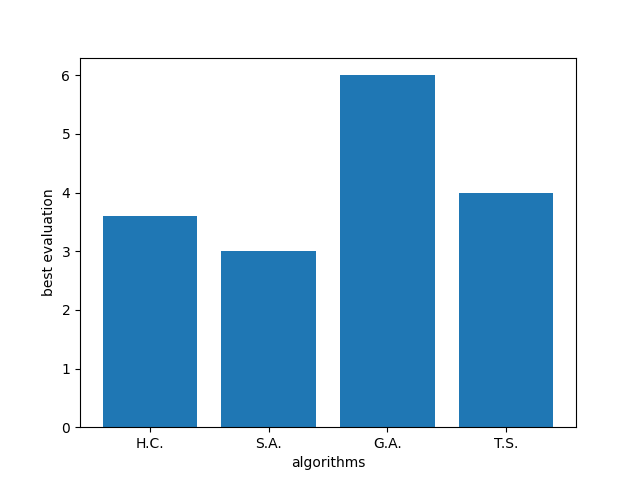
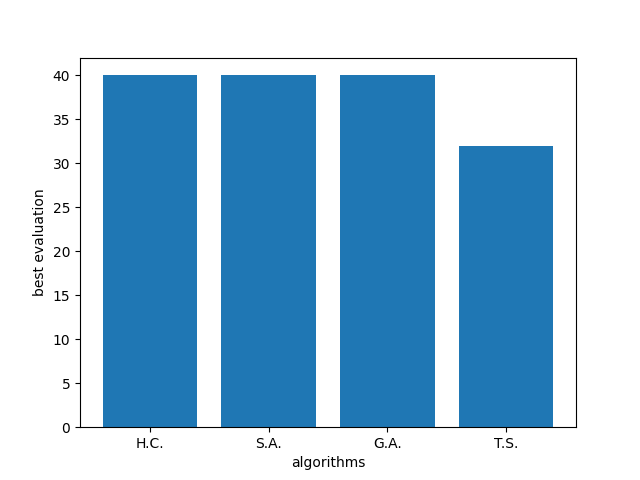
Fixed an error in the check_requirements() function where the penalties would add up when a needed member was working on a project.

diff --git a/Proj1/algorithms.py b/Proj1/algorithms.py
@@ -6,10 +6,13 @@ class Solution:
         self.team = team
         self.solution = []
         for _ in range (team.n_projects):
-            self.solution.append([random.randint(0,1) for _ in range(team.n_members)])
-            #self.solution.append([0 for _ in range(team.n_members)])
+            #self.solution.append([random.randint(0,1) for _ in range(team.n_members)])
+            self.solution.append([0 for _ in range(team.n_members)])
 
     def evaluate(self, solution):
+        if len(solution) == 0:
+            return 0
+        
         #print("NEIGHBOUR: ", solution)
         #return (sum(solution[0]) + sum(solution[1]) + sum(solution[2]) + sum(solution[3]))
         
@@ -19,8 +22,8 @@ class Solution:
             project_timer.append(0)
 
         days = 0                # Number of days passed 
+        total_days = 1
         score = 0               # Score of the completed projects
-        delta = 0               # Time passed without a project starting
         completed_projects = 0  # Number of completed projects
         unfinished_projects = 0 # Number of unfinished projects
         started_projects = 0    # Number of started projects
@@ -29,9 +32,6 @@ class Solution:
         
         i = 0         
         while True:
-            delta += 1
-            days += 1
-
             for i in range(self.team.n_projects):
                 project = self.team.projects[i]
                 solution_members.clear()
@@ -48,18 +48,20 @@ class Solution:
                     #print(project.name, "has not started yet.")
                     penalties += project.check_requirements(i, solution_members)
                     if project.has_started:
-                        #print(project.name, "has started!")
+                        #print(project.name, "has started in day: ", days)
                         #print("-------------------------\n")
                         project_timer[i] += 1
                         started_projects += 1
                         unfinished_projects += 1
                         delta = 0
+                        total_days += project.duration
 
                 # If the project has started start the timers
                 else:
                     project_timer[i] += 1
                     # If the project's duration is over
                     if project_timer[i] == project.duration:
+                        #print(project.name, "has ended in day: ", days)
                         project.is_over = True
                         project.has_started = False
                         score += project.score
@@ -72,16 +74,17 @@ class Solution:
                                 member.reset()
             
             # If all projects get completed
-            if completed_projects == self.team.n_projects:
+            if completed_projects == self.team.n_projects or unfinished_projects == 0:
                 break
             
-            # In case a new project doesn't start in a few days, stop
-            elif delta > 5 and not unfinished_projects:
-                break
-        
+            days += 1
+
         self.team.reset()
-        #print("Score: ", score, " Days: ", days, "Penalties:", penalties, "Total:", 1000 + score/days + penalties)
-        return score/days 
+        #print("Score: ", completed_projects, "Penalties: ", penalties, " Days: ", days, "Total:", completed_projects/(days + penalties) * 100)
+        if total_days == 0:
+            return 0
+
+        return score - penalties
 
     def neighbour1(self, solution):
         """Change the value of one slot"""
@@ -137,12 +140,14 @@ class Solution:
         best_sol = []
         best_sol_eval = 0
 
+        #print(solution, " Score: ", self.evaluate(solution))
         while it < 100:
             it += 1
 
             neighbour = self.neighbour3(copy.deepcopy(solution))
             evaluation = self.evaluate(neighbour)
 
+           # print(neighbour, " Score: ", evaluation)
             if evaluation > self.evaluate(solution):
                 solution = neighbour
                 #it = 0
@@ -197,41 +202,45 @@ class Solution:
         else:
             return T0 / (1 + 0.5 * it ** 2) 
         
-
-
-
     def tabu_tenure(self):
-        return 3
+        return 10
 
     def tabu_search(self):
         tabu_list = []
         counters = []
         ev = []
         iteration = 0
+        neighbour_list = []
 
         solution = self.solution.copy()
         neighbour = self.neighbour3(copy.deepcopy(solution))
         best_sol = neighbour
         ev.append(self.evaluate(best_sol))
 
-
         while iteration < 100:
-            iteration += 1
             neighbour = self.neighbour3(copy.deepcopy(neighbour))
             evaluation = self.evaluate(neighbour)
             ev.append(evaluation)
 
+            if evaluation > self.evaluate(best_sol):
+                best_sol = neighbour
+                
             if neighbour not in tabu_list:
                 tabu_list.append(neighbour)
                 counters.append([neighbour.copy(), self.tabu_tenure()])
-                if evaluation > self.evaluate(best_sol):
-                    best_sol = neighbour
 
             else:
-                for k in range(len(counters)):
+                k = 0
+                size = len(counters)
+                while k < size:
                     counters[k][1] -= 1
                     if counters[k][1] == 0:
                         tabu_list.remove(counters[k][0])
+                        counters.remove(counters[k])
+                        size -= 1
+                k += 1
+            
+            iteration += 1
 
         return best_sol, ev
 

diff --git a/Proj1/formulation.py b/Proj1/formulation.py
@@ -55,31 +55,40 @@ class Project:
 
     def check_requirements(self, num_project, solution_members):
         assigned_members = []
+        needed_skills = []
         roles_matched = 0
+        penalties = 0
 
-        #If there are more roles than people, break
-        """ if self.n_roles != len(solution_members):
-            return -self.score/2 """
+        for role in self.roles:
+            needed_skills.append(role.name)
 
-        #For each different role
-        for i in range(self.n_roles):
-            k = 0
-            for member in solution_members:
-                if member.hasSkill(self.roles[i]) and not member.on_project:
+        for member in solution_members:
+            if member.on_project:
+                continue
+            
+            member_skills_matched = 0
+            for role in range(self.n_roles):
+                if self.roles[role].name not in needed_skills:
+                    continue
+                
+                if member.hasSkill(self.roles[role]):
                     roles_matched += 1
+                    member_skills_matched += 1
                     assigned_members.append(member)
+                    needed_skills.remove(self.roles[role].name)
                     break
 
-                k += 1
-
+            if(member_skills_matched == 0):
+                penalties += 0.5
+       
         #If all the requirements match start the project, lock the matched members
         if roles_matched == self.n_roles:
             self.has_started = True
             for member in assigned_members:
                 member.on_project = True
                 member.working_on = num_project
-        
-        return -(self.n_roles - roles_matched) * 10
+
+        return penalties
 
 class Team:
     def __init__(self, n_members, n_projects) -> None:
